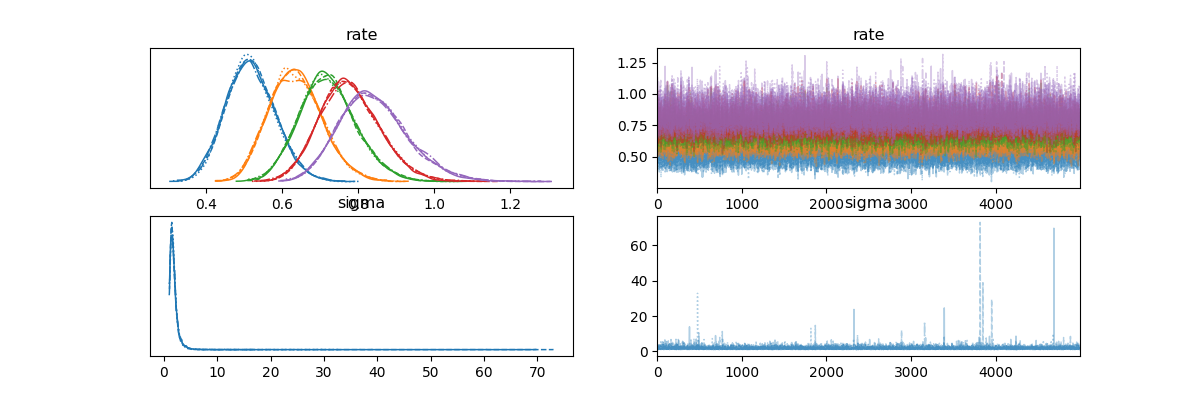
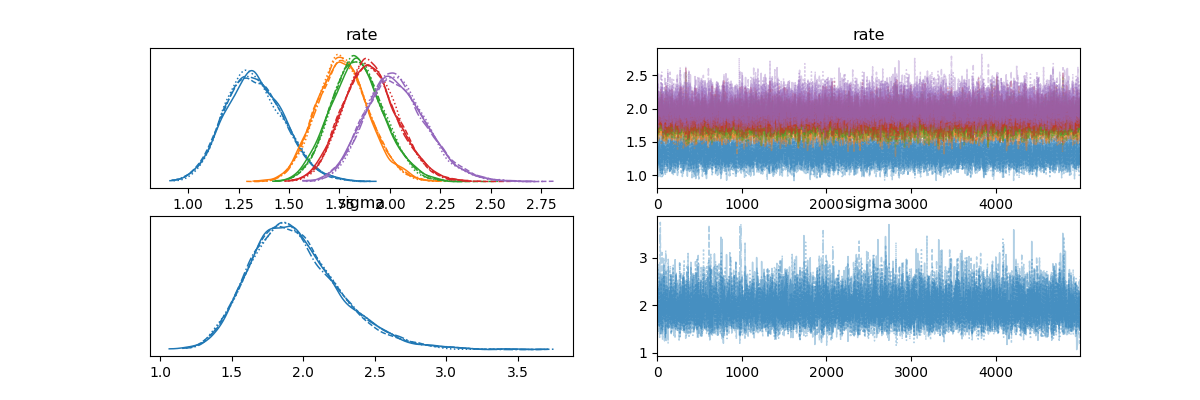
agregate weekly for ages

diff --git a/train_ages.py b/train_ages.py
@@ -72,11 +72,11 @@ def train_daily_model_ages(region, start_date='2020-06-29', end_date='2020-12-01
 
 def estimate_daily_switchpoints_ages(region, admissions_lambda_dict, start_date='2020-07-01',
                                 end_date='2022-03-27', burn=4000, draws=5000, n_chains=4,
-                                verbose=False, n_switchpoints=1, estimate_sw = False):
+                                verbose=False, n_switchpoints=1, estimate_sw = False, aggregate_week=False):
     if region == 'Italy':
         start_date = '2020-09-01'
     print('HE ENTRADO AL PROGRAMA')
-    cases_per_age, hospitalized_per_age = load_data_ages(region, start_date, end_date)
+    cases_per_age, hospitalized_per_age = load_data_ages(region, start_date, end_date, aggregate_week=aggregate_week)
     print('\n HE CARGADO LOS DATOS')
     if not estimate_sw:
         dict_init_values = {
@@ -119,7 +119,7 @@ def estimate_daily_switchpoints_ages(region, admissions_lambda_dict, start_date=
                         'hospitalized': idata.observed_data['admissions'].to_numpy()
                     }
 
-                    plot_daily_switchpoints(data, start_date, end_date, idata, n_switchpoints, region, edad, estimate_sw=estimate_sw)
+                    plot_daily_switchpoints(data, start_date, end_date, idata, n_switchpoints, region, edad, estimate_sw=estimate_sw, aggregate_week=aggregate_week)
 
                 if not estimate_sw:
                     with open(f'results/fixed_switchpoints_daily_{n_switchpoints}_{region}_{edad}.pickle', 'wb') as file:

diff --git a/main.py b/main.py
@@ -9,10 +9,10 @@ if __name__ == "__main__":
 
     if not args.deaths:
         if args.ages:
-            pH_array, admissions_lambda_dict = train_daily_model_ages(args.region, verbose=True)
+            pH_array, admissions_lambda_dict = train_daily_model_ages(args.region, verbose=True, aggregate_week=args.weekly)
             print(f' pH es {pH_array}, admissions_lambda es {admissions_lambda_dict}\n')
             estimate_daily_switchpoints_ages(region=args.region, admissions_lambda_dict=admissions_lambda_dict,
-                                        n_switchpoints=args.n_switchpoints,verbose=True, estimate_sw=args.switchpoints)
+                                        n_switchpoints=args.n_switchpoints,verbose=True, estimate_sw=args.switchpoints, aggregate_week=args.weekly)
         # Hospitalization
         else:
             pH, admissions_lambda = train_daily_model(args.region, verbose=True, aggregate_week=args.weekly)
